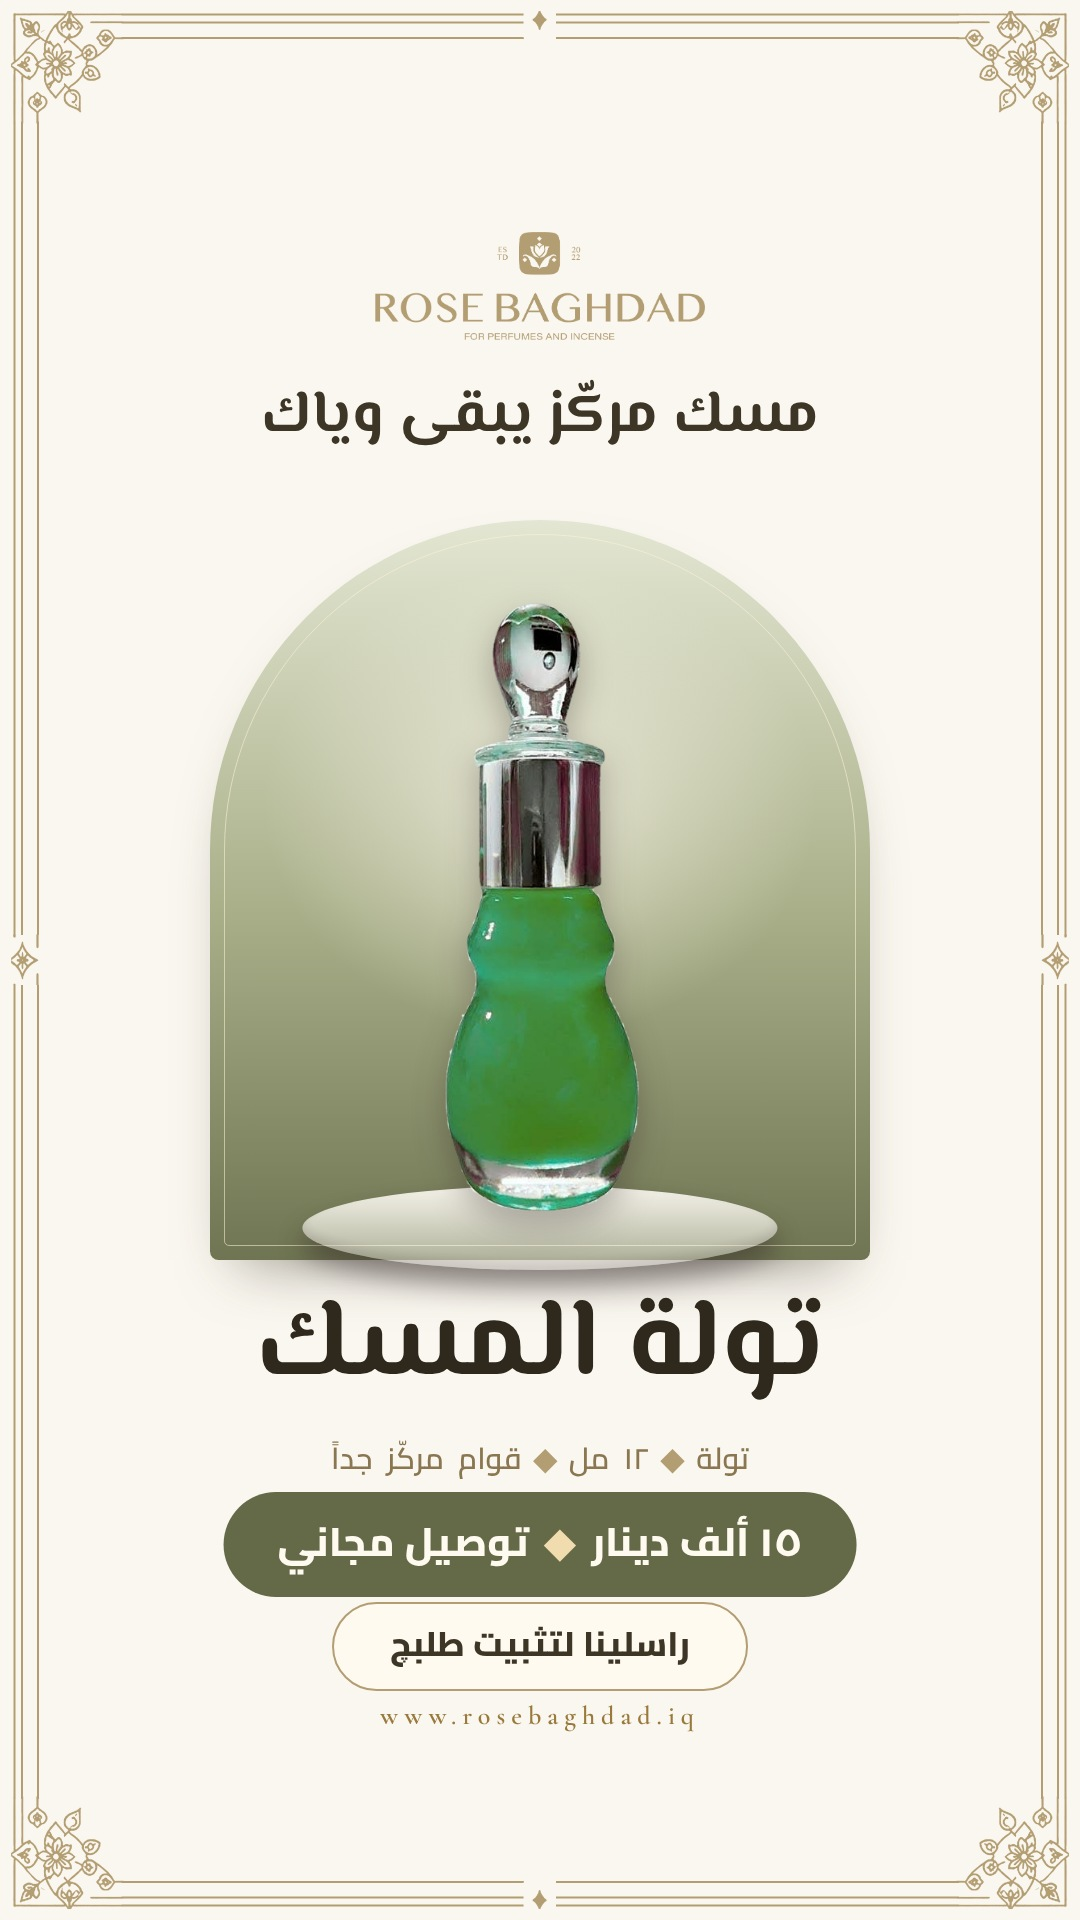
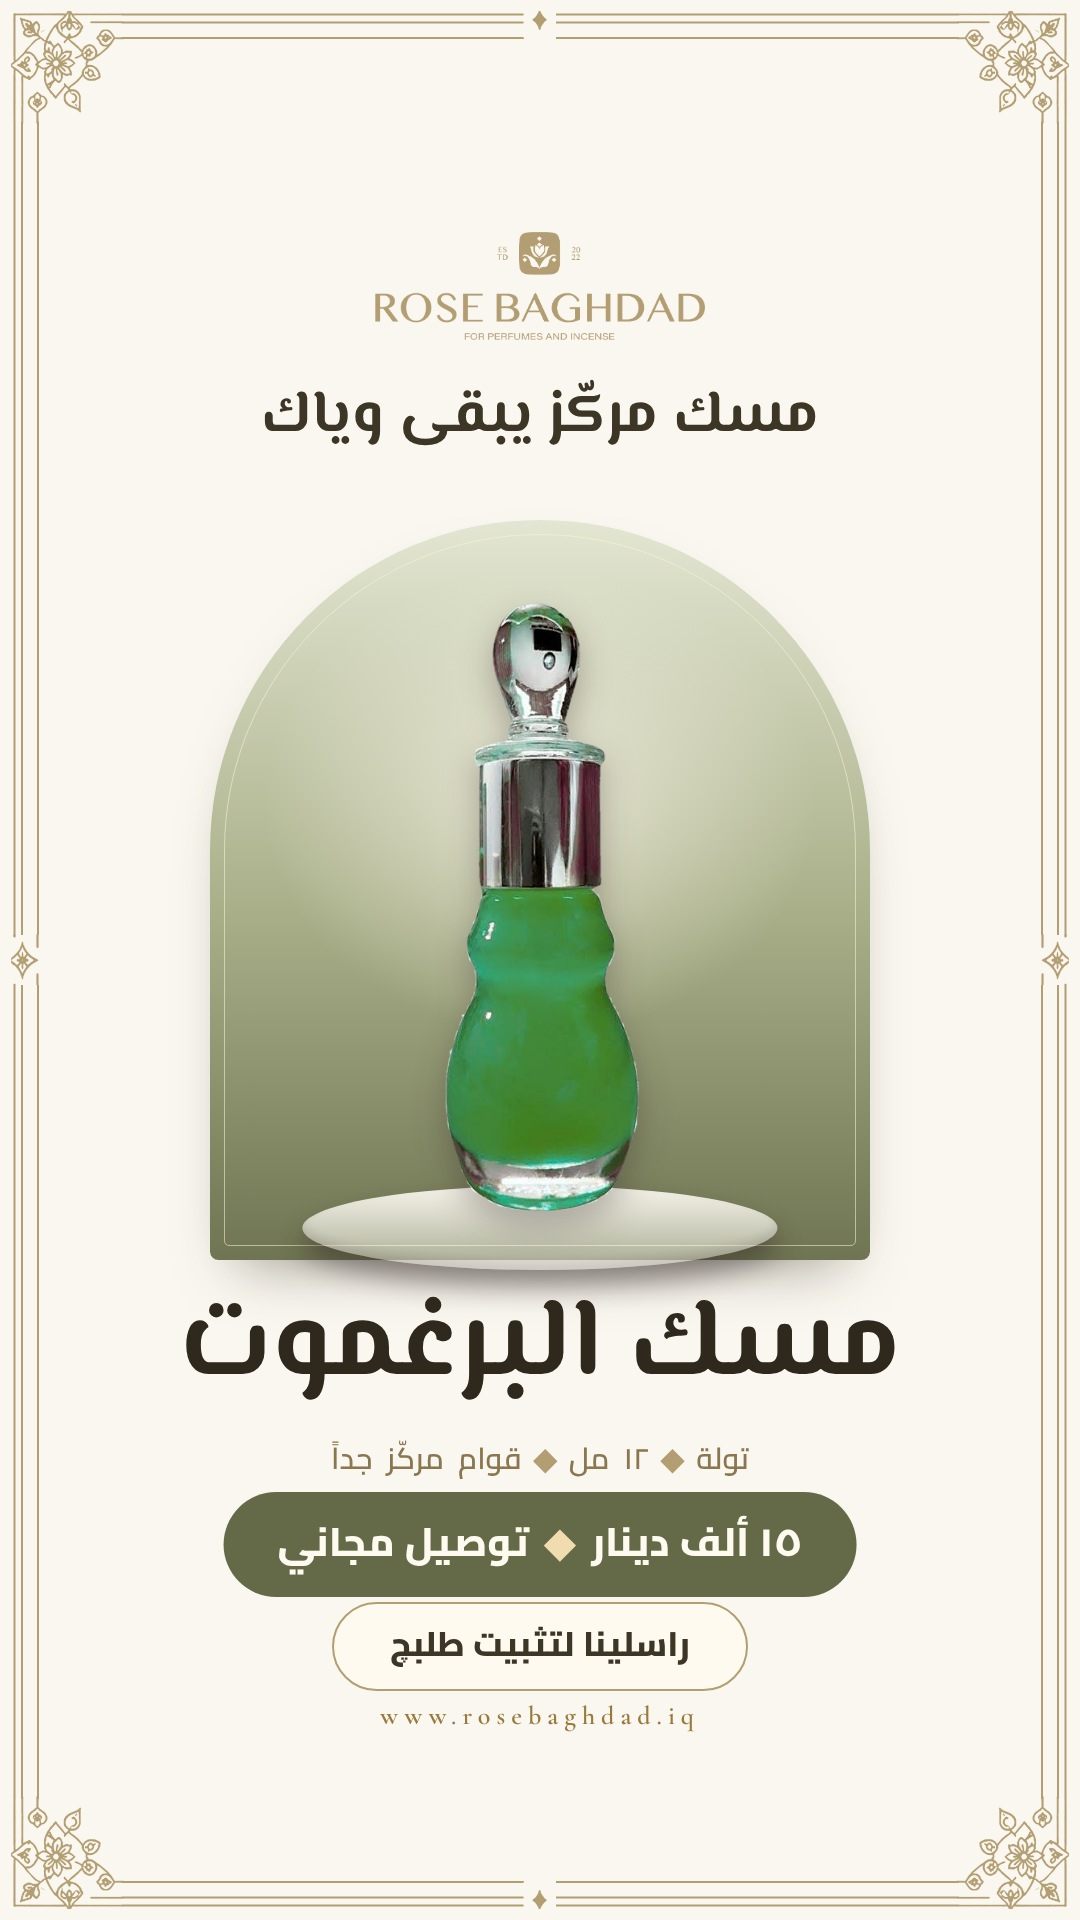
Tola: confirmed type names on each design; French musk recoloured to gold
Claude-Session: https://claude.ai/code/session_01HXze8h1ERTKVVJtJjHvpYz

Changed region(s): [[0.1528, 0.6562, 0.4889, 0.75], [0.5806, 0.6562, 0.825, 0.75], [0.5194, 0.6875, 0.55, 0.7188]]

diff --git a/CLAUDE.md b/CLAUDE.md
@@ -50,7 +50,7 @@
 - المنتج ينزل ويا **ريل بموسيقى** (الصورة لحالها ما بيها موسيقى)، والريل ينزل على **تيك توك** هم.
 - **الأوقات:** بوست 9 الصبح و12 الظهر، ريل 9 بالليل، ستوري 6–9 بالليل. والهدف أرقام خطة ميتا كاملة حتى لو تضاعف النشر اليومي.
 - **اللوحة 4 أقسام مفصولة:** جدول النشر (فيسبوك وإنستغرام)، ثريدز، تليغرام، المهام. لا نخلط بين قسم وقسم لا باللوحة ولا بالكلام.
-- **صور التولة:** أحمد دز صور القناني يوم 23 تشرين الثاني (برتقال، خوخ، أخضر، باودر)، وأمر نسوي منها لونين من عندنا: أصفر شفاف وأبيض. القناني المقصوصة بـ `tools/frame/cut/tola-*.png`. **اسم كل نوع حسب لونه بعده ما مأكد من أحمد** (الأنواع الستة: مسك الطهارة، المسك الفرنسي، الباودر، البرغموت، البرتقال، الخوخ)، فالتصميم ينكتب عليه "تولة المسك" بس لحد ما يأكد.
+- **التولة (6 أنواع، مأكدة من أحمد 23 تشرين الثاني):** الأبيض = مسك الطهارة، الأخضر = مسك البرغموت، البرتقالي = مسك البرتقال، البرتقالي الثاني = مسك الخوخ، الذهبي = المسك الفرنسي، الرمادي الوردي = مسك الباودر. الأبيض والذهبي ملونين من عندنا بأمر أحمد (الذهبي مو أصفر فاتح). القناني المقصوصة بـ `tools/frame/cut/tola-*.png` والتصاميم بـ `posts/tola-v2/`.
 
 **الدورة كل أسبوع:**
 1. رين تسلّم الخطة الجديدة بتعليق بمكتب البوس أول ما تتجدد عند ميتا (التواريخ، والمطلوب والمنجز لكل بند).
